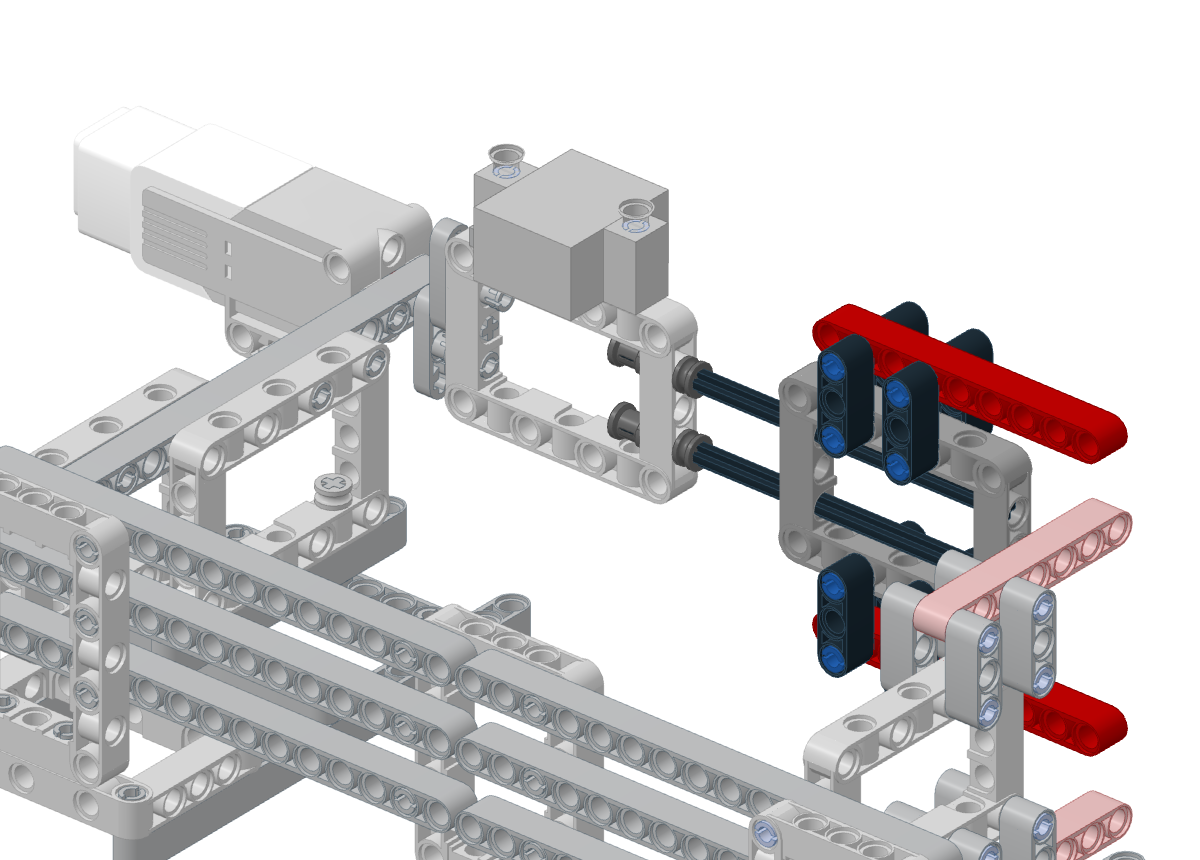
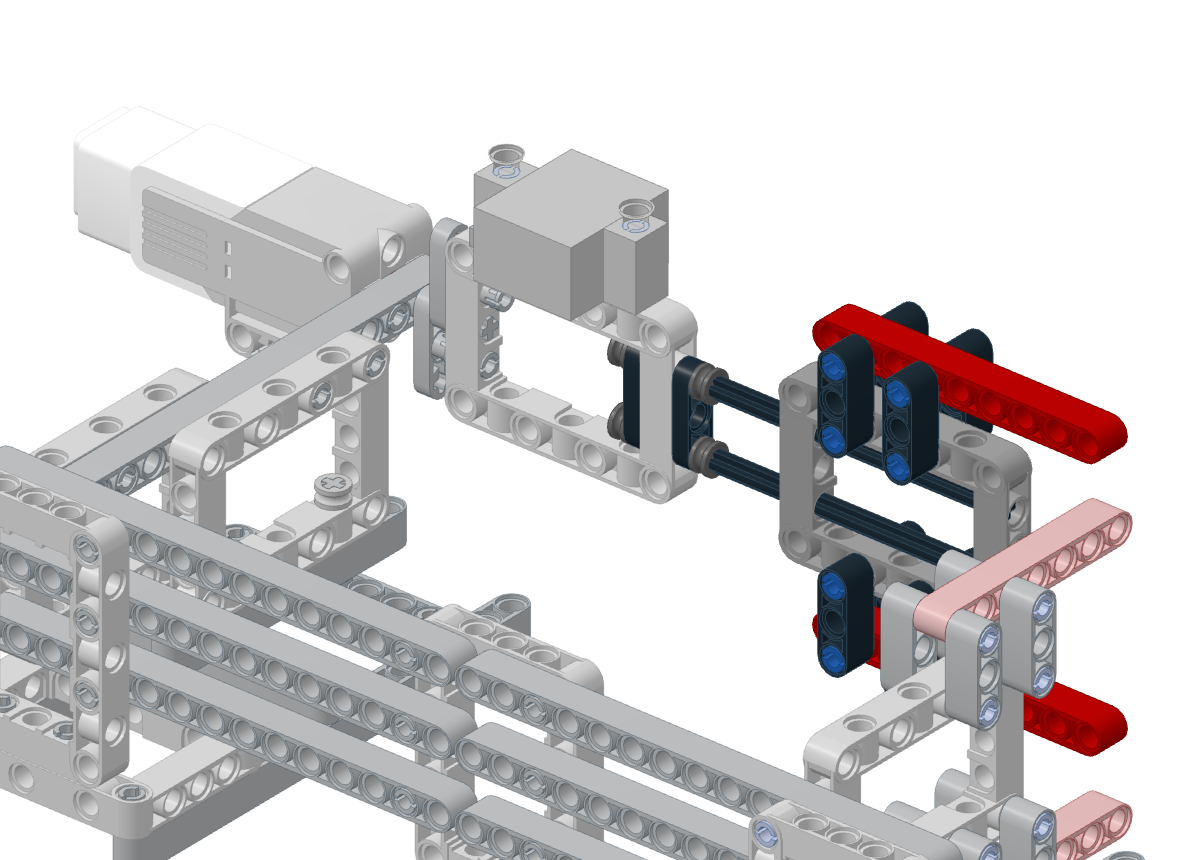
机械臂导轨根部加两片 3 孔细梁夹紧
用户反馈马达不再下垂但机械臂仍然下垂。导轨原来只靠转动座远端 1 孔厚的圆孔支撑,
十字轴在圆孔里有间隙, 前面约 84mm 悬臂会把间隙放大到叉尖。改为边框前后各一片 3 孔细梁,
十字孔同时卡住两根导轨并夹住边框, 外侧半轴套挡住。重新生成大/中马达版说明书。

Claude-Session: https://claude.ai/code/session_016rHZpN9YgUrLSyjADeSeKp

Changed region(s): [[0.4933, 0.393, 0.6167, 0.5744]]

diff --git a/docs/lego/medium/index.html b/docs/lego/medium/index.html
@@ -87,7 +87,7 @@ th{color:var(--muted);font-weight:600}
 <p>一个 EV3 中马达带动机械手旋转, 一个灰色 Geekservo 推拉叉子夹紧或松开魔方。测试架把马达和一个固定叉连在一起, 固定叉卡住魔方背面的中间一列, 这样机械手就可以单独拧魔方的一层。搭好后按 <b>docs/single_arm.md</b> 接线和测试。</p>
 <div class="note" id="support-update"><b>本中马达方案已停止优化，以下保留归档；后续按大马达方案继续验证。</b><br><b>2026-09-28 固定支架补强版：</b>实物发现马达固定端悬臂下垂，本版新增<a href="#s9">第9–12步承重支撑</a>。已搭好旧版时，只需补装这四步，原马达、联轴件、舵机和夹爪保留。<b>先装上方横销，底部改用无挡肩的4号轴＋半轴套；蓝色长销不能从一端穿过三层孔。</b>新增：7×5框架1块、7孔粗梁2根、9孔粗梁1根、2孔长摩擦销6个、4号轴2根、半轴套4个。<b>几何检查已通过，补强后的承重效果仍待实物确认。</b>先断开9V和USB再搭建；装好后检查马达是否仍下垂、轴线是否对正、转动是否顺畅，再恢复动力测试。详细说明见<a href="support-fix.md">补装与验收记录</a>。</div>
 <div class="plate"><img src="img/cover_closed.png" alt="整机总览" class="" loading="lazy" width="1400" height="900"></div>
-<div class="facts"><div class="fact"><b>26</b><span>个步骤</span></div><div class="fact"><b>129</b><span>个乐高零件, 另加 EV3 中马达和舵机各 1 个</span></div><div class="fact"><b>16.5 mm</b><span>叉子行程 (要求 ≥ 13mm)</span></div><div class="fact"><b>56 mm</b><span>魔方尺寸 (叉齿内侧间距约 56.8mm)</span></div></div>
+<div class="facts"><div class="fact"><b>26</b><span>个步骤</span></div><div class="fact"><b>131</b><span>个乐高零件, 另加 EV3 中马达和舵机各 1 个</span></div><div class="fact"><b>16.5 mm</b><span>叉子行程 (要求 ≥ 13mm)</span></div><div class="fact"><b>56 mm</b><span>魔方尺寸 (叉齿内侧间距约 56.8mm)</span></div></div>
 <div class="two"><figure style="margin:0" class="cover"><div class="plate"><img src="img/mech_closed.png" alt="夹紧" class="" loading="lazy" width="1000" height="520"></div><figcaption class="cap">俯视: 夹紧 (舵机曲柄转到前死点, 叉齿插入魔方两侧约 10mm)</figcaption></figure><figure style="margin:0" class="cover"><div class="plate"><img src="img/mech_open.png" alt="松开" class="" loading="lazy" width="1000" height="520"></div><figcaption class="cap">俯视: 松开 (叉子后退 16.5mm, 叉齿离开魔方)</figcaption></figure></div>
 <div class="note"><b>请先读这里:</b> 这份说明书是按官方 LDraw 零件的精确尺寸建模的, 程序检查过所有零件没有互相穿模、每个销和轴都插在孔里、已建模的机械手零件转一整圈不会碰到测试架。<b>检查不包含线缆, 不代表实物可连续旋转</b>。Geekservo 的外形按你给的图纸建模, 摩擦力、零件松紧和整体刚度只能靠实物检验。搭的过程中哪一步对不上, 拍照发给我。</div>
 <nav class="toc"><a href="#bom">零件清单</a><a href="#s1">1. 底座 1</a><a href="#s2">2. 底座 2</a><a href="#s3">3. 立板</a><a href="#s4">4. 横梁</a><a href="#s5">5. 接头</a><a href="#s6">6. 马达支架</a><a href="#s7">7. 马达面板</a><a href="#s8">8. 装马达</a><a href="#s9">9. 承重横梁</a><a href="#s10">10. 承重垫梁</a><a href="#s11">11. 先装上方横销</a><a href="#s12">12. 底部穿轴并限位</a><a href="#s13">13. 固定叉 1</a><a href="#s14">14. 固定叉 2</a><a href="#s15">15. 装固定叉</a><a href="#s16">16. 联轴</a><a href="#s17">17. 转动座</a><a href="#s18">18. 舵机</a><a href="#s19">19. 叉子 1</a><a href="#s20">20. 叉子 2</a><a href="#s21">21. 导轨</a><a href="#s22">22. 装叉子</a><a href="#s23">23. 立轴</a><a href="#s24">24. 曲柄</a><a href="#s25">25. 连杆</a><a href="#s26">26. 放入魔方</a><a href="#checks">检查与待验证</a></nav>
@@ -100,15 +100,15 @@ th{color:var(--muted);font-weight:600}
 <div class="item"><img src="img/part_40490_0.png" alt="9 孔粗梁" class="" loading="lazy" width="260" height="200"><div class="qty">1×</div><div>9 孔粗梁</div><div class="mono">40490</div></div>
 <div class="item"><img src="img/part_40490_4.png" alt="9 孔粗梁" class="" loading="lazy" width="260" height="200"><div class="qty">2×</div><div>9 孔粗梁</div><div class="mono">40490</div></div>
 <div class="item"><img src="img/part_64179_71.png" alt="7x5 框架" class="" loading="lazy" width="260" height="200"><div class="qty">10×</div><div>7x5 框架</div><div class="mono">64179</div></div>
-<div class="item"><img src="img/part_6632_0.png" alt="3 孔细梁 (两端十字孔)" class="" loading="lazy" width="260" height="200"><div class="qty">3×</div><div>3 孔细梁 (两端十字孔)</div><div class="mono">6632</div></div>
+<div class="item"><img src="img/part_6632_0.png" alt="3 孔细梁 (两端十字孔)" class="" loading="lazy" width="260" height="200"><div class="qty">5×</div><div>3 孔细梁 (两端十字孔)</div><div class="mono">6632</div></div>
 <div class="item"><img src="img/part_99455_15.png" alt="EV3 中马达" class="" loading="lazy" width="260" height="200"><div class="qty">1×</div><div>EV3 中马达</div><div class="mono">99455</div></div>
 <div class="item"><img src="img/part_geekservo_72.png" alt="Geekservo 舵机 (灰色, 270°)" class="" loading="lazy" width="260" height="200"><div class="qty">1×</div><div>Geekservo 舵机 (灰色, 270°)</div><div class="mono">geekservo</div></div>
 <div class="item"><img src="img/part_2780_0.png" alt="摩擦销 (2 孔长)" class="" loading="lazy" width="260" height="200"><div class="qty">41×</div><div>摩擦销 (2 孔长)</div><div class="mono">2780</div></div>
 <div class="item"><img src="img/part_32073_72.png" alt="5 号轴" class="" loading="lazy" width="260" height="200"><div class="qty">1×</div><div>5 号轴</div><div class="mono">32073</div></div>
-<div class="item"><img src="img/part_32123a_72.png" alt="半轴套" class="" loading="lazy" width="260" height="200"><div class="qty">8×</div><div>半轴套</div><div class="mono">32123a</div></div>
+<div class="item"><img src="img/part_32123a_72.png" alt="半轴套" class="" loading="lazy" width="260" height="200"><div class="qty">10×</div><div>半轴套</div><div class="mono">32123a</div></div>
 <div class="item"><img src="img/part_3705_0.png" alt="4 号轴" class="" loading="lazy" width="260" height="200"><div class="qty">3×</div><div>4 号轴</div><div class="mono">3705</div></div>
 <div class="item"><img src="img/part_3708_0.png" alt="12 号轴" class="" loading="lazy" width="260" height="200"><div class="qty">2×</div><div>12 号轴</div><div class="mono">3708</div></div>
-<div class="item"><img src="img/part_3713_72.png" alt="轴套" class="" loading="lazy" width="260" height="200"><div class="qty">4×</div><div>轴套</div><div class="mono">3713</div></div>
+<div class="item"><img src="img/part_3713_72.png" alt="轴套" class="" loading="lazy" width="260" height="200"><div class="qty">2×</div><div>轴套</div><div class="mono">3713</div></div>
 <div class="item"><img src="img/part_6558_1.png" alt="长摩擦销 (3 孔长)" class="" loading="lazy" width="260" height="200"><div class="qty">22×</div><div>长摩擦销 (3 孔长)</div><div class="mono">6558</div></div>
 </div></section>
 <h2>搭建步骤</h2>
@@ -305,18 +305,18 @@ th{color:var(--muted);font-weight:600}
 <div class="subtag">子组件 · 叉子</div>
 <h3>导轨</h3></div>
 </div>
-<div class="callout"><div class="chip"><img src="img/part_3708_0.png" alt="12 号轴" class="" loading="lazy" width="260" height="200"><div class="x">2×</div><div class="n">12 号轴</div></div><div class="chip"><img src="img/part_32123a_72.png" alt="半轴套" class="" loading="lazy" width="260" height="200"><div class="x">2×</div><div class="n">半轴套</div></div></div>
+<div class="callout"><div class="chip"><img src="img/part_3708_0.png" alt="12 号轴" class="" loading="lazy" width="260" height="200"><div class="x">2×</div><div class="n">12 号轴</div></div><div class="chip"><img src="img/part_32123a_72.png" alt="半轴套" class="" loading="lazy" width="260" height="200"><div class="x">2×</div><div class="n">半轴套</div></div><div class="chip"><img src="img/part_6632_0.png" alt="3 孔细梁 (两端十字孔)" class="" loading="lazy" width="260" height="200"><div class="x">1×</div><div class="n">3 孔细梁 (两端十字孔)</div></div></div>
 <div class="plate"><img src="img/step21.png" alt="导轨" class="" loading="lazy" width="1200" height="860"></div>
-<p>两根 12 号轴穿过叉子框架两端的孔, 再在叉子后面套上半轴套。叉子应能在轴上顺滑地前后滑动。</p>
+<p>两根 12 号轴穿过叉子框架两端的孔, 在叉子后面各套一个半轴套, 再把一片 3 孔细梁用两端的十字孔同时套在两根轴上, 贴住半轴套。叉子应能在轴上顺滑地前后滑动。</p>
 </section>
 <section class="step" id="s22">
 <div class="step-head">
 <div class="num">22</div><div class="title-block">
 <h3>装叉子</h3></div>
 </div>
-<div class="callout"><div class="chip"><img src="img/sub3.png" alt="叉子" class="" loading="lazy" width="260" height="200"><div class="x">1×</div><div class="n">做好的叉子</div></div><div class="chip"><img src="img/part_3713_72.png" alt="轴套" class="" loading="lazy" width="260" height="200"><div class="x">2×</div><div class="n">轴套</div></div></div>
+<div class="callout"><div class="chip"><img src="img/sub3.png" alt="叉子" class="" loading="lazy" width="260" height="200"><div class="x">1×</div><div class="n">做好的叉子</div></div><div class="chip"><img src="img/part_6632_0.png" alt="3 孔细梁 (两端十字孔)" class="" loading="lazy" width="260" height="200"><div class="x">1×</div><div class="n">3 孔细梁 (两端十字孔)</div></div><div class="chip"><img src="img/part_32123a_72.png" alt="半轴套" class="" loading="lazy" width="260" height="200"><div class="x">2×</div><div class="n">半轴套</div></div></div>
 <div class="plate"><img src="img/step22.png" alt="装叉子" class="" loading="lazy" width="1200" height="860"></div>
-<p>导轨的另一头插进转动座远端的两个孔, 从框架中间的空档里给每根轴套上一个轴套, 把导轨卡住。</p>
+<p>导轨的另一头插进转动座远端的两个孔, 细梁贴住边框前面。再从框架中间的空档里, 把第二片 3 孔细梁用十字孔套在两根轴上、贴住边框后面, 最后各套一个半轴套。两片细梁夹住边框, 导轨就不会在孔里晃。</p>
 </section>
 <section class="step" id="s23">
 <div class="step-head">

diff --git a/docs/lego/index.html b/docs/lego/index.html
@@ -86,7 +86,7 @@ th{color:var(--muted);font-weight:600}
 <p class="cap">本页是EV3 大马达版。另有<a href="https://claude.ai/artifact/7VtzEUtxMbezHPJQYCDWPX">EV3 中马达版</a>, 两版的机械手、叉子和测试架大部分相同, 只有马达固定和马达与转动座的连接不同。</p>
 <p>一个 EV3 大马达带动机械手旋转, 一个灰色 Geekservo 推拉叉子夹紧或松开魔方。测试架把马达和一个固定叉连在一起, 固定叉卡住魔方背面的中间一列, 这样机械手就可以单独拧魔方的一层。搭好后按 <b>docs/single_arm.md</b> 接线和测试。</p>
 <div class="plate"><img src="img/cover_closed.png" alt="整机总览" class="" loading="lazy" width="1400" height="900"></div>
-<div class="facts"><div class="fact"><b>23</b><span>个步骤</span></div><div class="fact"><b>122</b><span>个乐高零件, 另加 EV3 大马达和舵机各 1 个</span></div><div class="fact"><b>16.5 mm</b><span>叉子行程 (要求 ≥ 13mm)</span></div><div class="fact"><b>56 mm</b><span>魔方尺寸 (叉齿内侧间距约 56.8mm)</span></div></div>
+<div class="facts"><div class="fact"><b>23</b><span>个步骤</span></div><div class="fact"><b>124</b><span>个乐高零件, 另加 EV3 大马达和舵机各 1 个</span></div><div class="fact"><b>16.5 mm</b><span>叉子行程 (要求 ≥ 13mm)</span></div><div class="fact"><b>56 mm</b><span>魔方尺寸 (叉齿内侧间距约 56.8mm)</span></div></div>
 <div class="two"><figure style="margin:0" class="cover"><div class="plate"><img src="img/mech_closed.png" alt="夹紧" class="" loading="lazy" width="1000" height="520"></div><figcaption class="cap">俯视: 夹紧 (舵机曲柄转到前死点, 叉齿插入魔方两侧约 10mm)</figcaption></figure><figure style="margin:0" class="cover"><div class="plate"><img src="img/mech_open.png" alt="松开" class="" loading="lazy" width="1000" height="520"></div><figcaption class="cap">俯视: 松开 (叉子后退 16.5mm, 叉齿离开魔方)</figcaption></figure></div>
 <div class="note"><b>请先读这里:</b> 这份说明书是按官方 LDraw 零件的精确尺寸建模的, 程序检查过所有零件没有互相穿模、每个销和轴都插在孔里、已建模的机械手零件转一整圈不会碰到测试架。<b>检查不包含线缆, 不代表实物可连续旋转</b>。Geekservo 的外形按你给的图纸建模, 摩擦力、零件松紧和整体刚度只能靠实物检验。搭的过程中哪一步对不上, 拍照发给我。</div>
 <nav class="toc"><a href="#bom">零件清单</a><a href="#s1">1. 底座 1</a><a href="#s2">2. 底座 2</a><a href="#s3">3. 立板</a><a href="#s4">4. 横梁</a><a href="#s5">5. 接头</a><a href="#s6">6. 后垫块</a><a href="#s7">7. 装后垫块</a><a href="#s8">8. 马达固定板</a><a href="#s9">9. 底部垫梁</a><a href="#s10">10. 装马达</a><a href="#s11">11. 固定叉 1</a><a href="#s12">12. 固定叉 2</a><a href="#s13">13. 装固定叉</a><a href="#s14">14. 转动座</a><a href="#s15">15. 舵机</a><a href="#s16">16. 叉子 1</a><a href="#s17">17. 叉子 2</a><a href="#s18">18. 导轨</a><a href="#s19">19. 装叉子</a><a href="#s20">20. 立轴</a><a href="#s21">21. 曲柄</a><a href="#s22">22. 连杆</a><a href="#s23">23. 放入魔方</a><a href="#checks">检查与待验证</a></nav>
@@ -98,15 +98,15 @@ th{color:var(--muted);font-weight:600}
 <div class="item"><img src="img/part_32524_4.png" alt="7 孔粗梁" class="" loading="lazy" width="260" height="200"><div class="qty">2×</div><div>7 孔粗梁</div><div class="mono">32524</div></div>
 <div class="item"><img src="img/part_40490_4.png" alt="9 孔粗梁" class="" loading="lazy" width="260" height="200"><div class="qty">2×</div><div>9 孔粗梁</div><div class="mono">40490</div></div>
 <div class="item"><img src="img/part_64179_71.png" alt="7x5 框架" class="" loading="lazy" width="260" height="200"><div class="qty">9×</div><div>7x5 框架</div><div class="mono">64179</div></div>
-<div class="item"><img src="img/part_6632_0.png" alt="3 孔细梁 (两端十字孔)" class="" loading="lazy" width="260" height="200"><div class="qty">1×</div><div>3 孔细梁 (两端十字孔)</div><div class="mono">6632</div></div>
+<div class="item"><img src="img/part_6632_0.png" alt="3 孔细梁 (两端十字孔)" class="" loading="lazy" width="260" height="200"><div class="qty">3×</div><div>3 孔细梁 (两端十字孔)</div><div class="mono">6632</div></div>
 <div class="item"><img src="img/part_95658_15.png" alt="EV3 大马达" class="" loading="lazy" width="260" height="200"><div class="qty">1×</div><div>EV3 大马达</div><div class="mono">95658</div></div>
 <div class="item"><img src="img/part_geekservo_72.png" alt="Geekservo 舵机 (灰色, 270°)" class="" loading="lazy" width="260" height="200"><div class="qty">1×</div><div>Geekservo 舵机 (灰色, 270°)</div><div class="mono">geekservo</div></div>
 <div class="item"><img src="img/part_2780_0.png" alt="摩擦销 (2 孔长)" class="" loading="lazy" width="260" height="200"><div class="qty">41×</div><div>摩擦销 (2 孔长)</div><div class="mono">2780</div></div>
 <div class="item"><img src="img/part_32054_4.png" alt="带挡套长销 (3 孔长, 红色)" class="" loading="lazy" width="260" height="200"><div class="qty">2×</div><div>带挡套长销 (3 孔长, 红色)</div><div class="mono">32054</div></div>
 <div class="item"><img src="img/part_32073_72.png" alt="5 号轴" class="" loading="lazy" width="260" height="200"><div class="qty">1×</div><div>5 号轴</div><div class="mono">32073</div></div>
-<div class="item"><img src="img/part_32123a_72.png" alt="半轴套" class="" loading="lazy" width="260" height="200"><div class="qty">4×</div><div>半轴套</div><div class="mono">32123a</div></div>
+<div class="item"><img src="img/part_32123a_72.png" alt="半轴套" class="" loading="lazy" width="260" height="200"><div class="qty">6×</div><div>半轴套</div><div class="mono">32123a</div></div>
 <div class="item"><img src="img/part_3708_0.png" alt="12 号轴" class="" loading="lazy" width="260" height="200"><div class="qty">2×</div><div>12 号轴</div><div class="mono">3708</div></div>
-<div class="item"><img src="img/part_3713_72.png" alt="轴套" class="" loading="lazy" width="260" height="200"><div class="qty">4×</div><div>轴套</div><div class="mono">3713</div></div>
+<div class="item"><img src="img/part_3713_72.png" alt="轴套" class="" loading="lazy" width="260" height="200"><div class="qty">2×</div><div>轴套</div><div class="mono">3713</div></div>
 <div class="item"><img src="img/part_43093_1.png" alt="轴销 (一半轴一半销)" class="" loading="lazy" width="260" height="200"><div class="qty">1×</div><div>轴销 (一半轴一半销)</div><div class="mono">43093</div></div>
 <div class="item"><img src="img/part_6558_1.png" alt="长摩擦销 (3 孔长)" class="" loading="lazy" width="260" height="200"><div class="qty">22×</div><div>长摩擦销 (3 孔长)</div><div class="mono">6558</div></div>
 </div></section>
@@ -279,18 +279,18 @@ th{color:var(--muted);font-weight:600}
 <div class="subtag">子组件 · 叉子</div>
 <h3>导轨</h3></div>
 </div>
-<div class="callout"><div class="chip"><img src="img/part_3708_0.png" alt="12 号轴" class="" loading="lazy" width="260" height="200"><div class="x">2×</div><div class="n">12 号轴</div></div><div class="chip"><img src="img/part_32123a_72.png" alt="半轴套" class="" loading="lazy" width="260" height="200"><div class="x">2×</div><div class="n">半轴套</div></div></div>
+<div class="callout"><div class="chip"><img src="img/part_3708_0.png" alt="12 号轴" class="" loading="lazy" width="260" height="200"><div class="x">2×</div><div class="n">12 号轴</div></div><div class="chip"><img src="img/part_32123a_72.png" alt="半轴套" class="" loading="lazy" width="260" height="200"><div class="x">2×</div><div class="n">半轴套</div></div><div class="chip"><img src="img/part_6632_0.png" alt="3 孔细梁 (两端十字孔)" class="" loading="lazy" width="260" height="200"><div class="x">1×</div><div class="n">3 孔细梁 (两端十字孔)</div></div></div>
 <div class="plate"><img src="img/step18.png" alt="导轨" class="" loading="lazy" width="1200" height="860"></div>
-<p>两根 12 号轴穿过叉子框架两端的孔, 再在叉子后面套上半轴套。叉子应能在轴上顺滑地前后滑动。</p>
+<p>两根 12 号轴穿过叉子框架两端的孔, 在叉子后面各套一个半轴套, 再把一片 3 孔细梁用两端的十字孔同时套在两根轴上, 贴住半轴套。叉子应能在轴上顺滑地前后滑动。</p>
 </section>
 <section class="step" id="s19">
 <div class="step-head">
 <div class="num">19</div><div class="title-block">
 <h3>装叉子</h3></div>
 </div>
-<div class="callout"><div class="chip"><img src="img/sub4.png" alt="叉子" class="" loading="lazy" width="260" height="200"><div class="x">1×</div><div class="n">做好的叉子</div></div><div class="chip"><img src="img/part_3713_72.png" alt="轴套" class="" loading="lazy" width="260" height="200"><div class="x">2×</div><div class="n">轴套</div></div></div>
+<div class="callout"><div class="chip"><img src="img/sub4.png" alt="叉子" class="" loading="lazy" width="260" height="200"><div class="x">1×</div><div class="n">做好的叉子</div></div><div class="chip"><img src="img/part_6632_0.png" alt="3 孔细梁 (两端十字孔)" class="" loading="lazy" width="260" height="200"><div class="x">1×</div><div class="n">3 孔细梁 (两端十字孔)</div></div><div class="chip"><img src="img/part_32123a_72.png" alt="半轴套" class="" loading="lazy" width="260" height="200"><div class="x">2×</div><div class="n">半轴套</div></div></div>
 <div class="plate"><img src="img/step19.png" alt="装叉子" class="" loading="lazy" width="1200" height="860"></div>
-<p>导轨的另一头插进转动座远端的两个孔, 从框架中间的空档里给每根轴套上一个轴套, 把导轨卡住。</p>
+<p>导轨的另一头插进转动座远端的两个孔, 细梁贴住边框前面。再从框架中间的空档里, 把第二片 3 孔细梁用十字孔套在两根轴上、贴住边框后面, 最后各套一个半轴套。两片细梁夹住边框, 导轨就不会在孔里晃。</p>
 </section>
 <section class="step" id="s20">
 <div class="step-head">

diff --git a/tools/lego/model.py b/tools/lego/model.py
@@ -382,16 +382,21 @@ def build(fork_extended=True, head_angle=0.0, with_cube=True, motor="large"):
         for dx in (-20, 20):
             hadd("32523.dat", C_BEAM, (xf + dx, 60 * sy, 20), BEAM_Y_HOLES_Z, s)
 
-    s = step("导轨", "两根 12 号轴穿过叉子框架两端的孔, 再在叉子后面套上半轴套。叉子应能在轴上顺滑地前后滑动。",
-             sub="叉子", view=(30, 35))
+    # 导轨根部: 转动座远端只有 1 孔厚的圆孔, 轴在圆孔里有间隙, 前面 8cm 悬臂会把间隙放大成叉尖下垂。
+    # 两片 3 孔细梁用两端的十字孔同时卡住两根导轨, 从前后两面夹住转动座远端的边框, 把支撑长度加倍。
+    s = step("导轨", "两根 12 号轴穿过叉子框架两端的孔, 在叉子后面各套一个半轴套, 再把一片 3 孔细梁用两端的十字孔"
+             "同时套在两根轴上, 贴住半轴套。叉子应能在轴上顺滑地前后滑动。", sub="叉子", view=(30, 35))
     for y in (-20, 20):
         hadd("3708.dat", C_AXLE, (250 + D, y, 0), ALONG_X, s)
-        hadd("32123a.dat", C_BUSH, (175 + D, y, 0), BUSH_X, s)
+        hadd("32123a.dat", C_BUSH, (185 + D, y, 0), BUSH_X, s)
+    hadd("6632.dat", C_BEAM, (175 + D, -20, 0), BEAM_Y_HOLES_X, s)
 
-    s = step("装叉子", "导轨的另一头插进转动座远端的两个孔, 从框架中间的空档里给每根轴套上一个轴套, 把导轨卡住。",
+    s = step("装叉子", "导轨的另一头插进转动座远端的两个孔, 细梁贴住边框前面。再从框架中间的空档里, 把第二片 3 孔细梁"
+             "用十字孔套在两根轴上、贴住边框后面, 最后各套一个半轴套。两片细梁夹住边框, 导轨就不会在孔里晃。",
              attach=("叉子",), view=(40, 30), focus="head")
+    hadd("6632.dat", C_BEAM, (145 + D, -20, 0), BEAM_Y_HOLES_X, s)
     for y in (-20, 20):
-        hadd("3713.dat", C_BUSH, (140 + D, y, 0), BUSH_X, s)
+        hadd("32123a.dat", C_BUSH, (135 + D, y, 0), BUSH_X, s)
 
     rx = slider_x(fork_extended)
     s = step("立轴", "5 号轴竖着穿过叉子框架后部的孔: 框架下面一个半轴套, 上面两个轴套。", view=(25, 35), focus="mech")

diff --git a/tools/lego/README.md b/tools/lego/README.md
@@ -46,6 +46,7 @@ LDraw 单位 LDU：1 LDU = 0.4mm，1 个孔距 = 20 LDU = 8mm，-Y 向上。EV3 
 - **插入深度**：夹紧时叉齿尖端伸过魔方表面约 25.8 LDU ≈ 10.3mm；松开后退到魔方表面以外约 6.2mm，此时魔方整体翻转，角块扫过的范围碰不到叉齿（`check` 已验证 0~90°）。
 - **靠近魔方的部分都很窄**：叉子框架和连接用的 3 孔梁都在魔方表面 14mm 以外（z 方向宽的零件在 x ≤ 376），相邻层转动时不会被挡住。
 - **导轨**：两根 12 号轴固定在转动座远端，叉子框架两端的孔套在轴上滑动，两个支点相距 120 LDU，叉子不易歪。
+- **导轨根部夹紧（2026-09-28 实物反馈后新增）**：用户反馈马达不再下垂后，机械臂仍然下垂。导轨原来只插在转动座远端 1 孔厚（8mm）的圆孔里，十字轴在圆孔里有间隙，而轴从这里向前悬伸约 84mm，间隙会被放大约 10 倍到叉尖。现在在边框前后各贴一片 3 孔细梁（6632），两端十字孔同时卡住两根导轨，外侧再用半轴套挡住：导轨被夹持的长度从 8mm 增加到 16mm，而且十字孔没有间隙。输出盘与转动座之间（2 个摩擦销 + 1 个轴销，上下相距 16mm）是另一个可能的来源，模型里暂时没有改，**要等实物推叉尖测试后再决定**。
 - **马达固定（大马达）**：马达尾部下方有两片耳朵（各 1 孔厚、3 个孔：第 1、3 个是圆销孔，中间是十字孔），耳朵之间是一个 1 孔宽的缝。做法取自 LEGO 官方 EV3 模型 TRACK3R（31313，LDraw 官方模型库 `31313-1_Track3r.mpd`）：把框架的一边插进这个缝，两根红色带挡套长销（32054）从同一侧插进第 1、3 孔，2 孔长的销段穿过"耳朵—框架"，挡套留在耳朵外面，不会插过头。框架被两片耳朵夹住，马达的反扭矩经框架传到后墙，都是销受剪。旧版写的"蓝色长销穿过耳朵—框架—耳朵"装不上，见下一节。
 - **马达第二个固定点（大马达，后垫块）**：只靠尾部耳朵时，机械手的重量绕马达尾部往下压，力矩全压在耳朵里那两根销上。马达尾端面下排有 3 个销孔（y = −20，孔深 z −210～−190），正对横梁上排，中间正好空 3 个孔距。这里用 3 根 7 孔梁叠成后垫块，层与层之间错开插摩擦销；垫块后面用 2 个销接横梁，前面 3 个销插进马达尾端面。装马达时整体往后推，固定板套上蓝色短头，尾端面同时套上 3 个黑销。马达颈部顶上的鳍片（LEGO 教育版小车的主固定点）也看过：鳍片后面紧挨着马达方箱，箱子比鳍片高约 20mm、宽 40mm，梁没法直接往后引到立板，所以没有采用。尾端插头区域（x −20～20，y −80～−40）保持空着，线缆从立板上方往后走。**承重效果待实物确认。**
 - **底部垫梁（大马达，2026-09-28 实物反馈后新增）**：用户搭出来发现马达连同固定框架整体下垂。固定框架底边（y = 90）和底座框架顶面（y = 110）之间正好空 1 个孔距，垫一根 7 孔梁，3 个摩擦销竖着插进框架底边的孔（框架边上的孔是贯通的），梁压在底座框架的前边上。它只在底座框架前边那一段（z −230～−210）受力，前端仍然悬空，**是否足够要看实物**。
